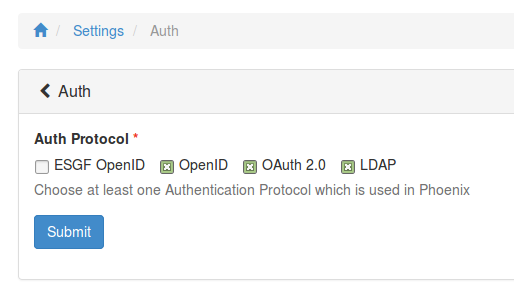
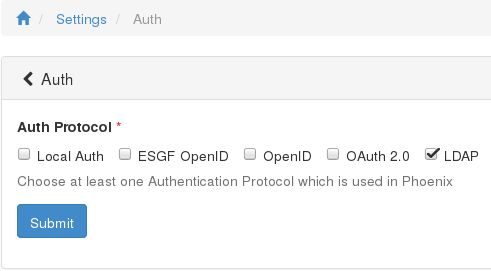
Updated documentation.

diff --git a/docs/source/user_guide.rst b/docs/source/user_guide.rst
@@ -195,7 +195,7 @@ Open the ``Settings/Users`` page. Here you activate/deactivate users and also re
 Choose Authentication Protocol
 ~~~~~~~~~~~~~~~~~~~~~~~~~~~~~~
 
-Open the ``Settings/Auth`` page. Here you can choose the different authentication protocols (OpenID, LDAP, ...) which users can use on the login page.
+Open the ``Settings/Auth`` page. Here you can choose the different authentication protocols (OpenID, LDAP, ...) which users can use on the login page. ``Local Auth`` enables the local admin account whose password is set in ``custom.cfg`` in your Phoenix installation.
 
 .. image:: _images/settings_auth.png 
 
